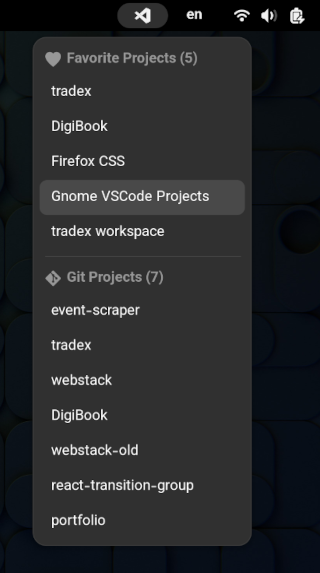
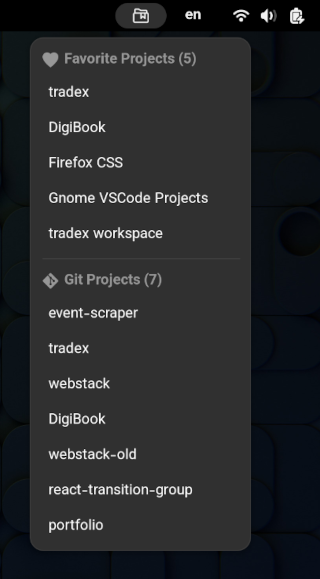
Update README and other assets
Add trademark disclaimers and changed the toolbar icon.

diff --git a/src/extension.js b/src/extension.js
@@ -3,20 +3,20 @@
  *
  * Copyright (C) 2022 Amir Hossein Mafi <amir77mafi@gmail.com>
  *
- * This file is part of gnome-vscode-projects.
+ * This file is part of Project Manager for VSCode.
  *
- * gnome-vscode-projects is free software: you can redistribute it and/or modify
+ * Project Manager for VSCode is free software: you can redistribute it and/or modify
  * it under the terms of the GNU General Public License as published by the
  * Free Software Foundation, either version 3 of the License,
  * or (at your option) any later version.
  *
- * gnome-vscode-projects is distributed in the hope that it will be useful, but
+ * Project Manager for VSCode is distributed in the hope that it will be useful, but
  * WITHOUT ANY WARRANTY; without even the implied warranty of MERCHANTABILITY or
  * FITNESS FOR A PARTICULAR PURPOSE.  See the GNU General Public License for
  * more details.
  *
  * You should have received a copy of the GNU General Public License
- * along with gnome-vscode-projects. If not, see <http://www.gnu.org/licenses/>.
+ * along with Project Manager for VSCode. If not, see <http://www.gnu.org/licenses/>.
  *
  * SPDX-License-Identifier: GPL-3.0-or-later
  */

diff --git a/src/components/ProjectsPanelMenuButton.js b/src/components/ProjectsPanelMenuButton.js
@@ -17,7 +17,9 @@ var ProjectsPanelMenuButton = GObject.registerClass(
       this.menu.actor.add_style_class_name('vscode-projects-extension');
 
       this._icon = new St.Icon({
-        gicon: IconUtils.getCustomIconPath('vscode-symbolic'),
+        gicon: IconUtils.getCustomIconPath(
+          'project-manager-for-vscode-symbolic'
+        ),
         style_class: 'system-status-icon',
       });
       this.add_child(this._icon);

diff --git a/README.md b/README.md
@@ -1,45 +1,45 @@
 <div align="center">
-  <h1>VSCode Projects Gnome Extension</h1>
-  <p><b>Easily open your VSCode projects from gnome-shell</b></p>
+  <h1>GNOME Extension - Project Manager for Visual Studio Code</h1>
+  <p><b>Easily open your Visual Studio Code projects from GNOME shell</b></p>
   <a href="https://extensions.gnome.org">
     <img src="https://img.shields.io/badge/Install%20from-extensions.gnome.org-4A86CF?style=for-the-badge&logo=Gnome&logoColor=white"/>
   </a>
 </div>
 
-This extension simply allows you to open the projects from [VSCode](https://code.visualstudio.com) [Project Manager extension](https://github.com/alefragnani/vscode-project-manager) in menu on the gnome-shell toolbar.
+This extension simply allows you to open the projects from [VSCode](https://code.visualstudio.com) [Project Manager extension](https://github.com/alefragnani/vscode-project-manager) in menu on the GNOME shell toolbar. The Project Manager extension should be installed for this extension to work.
 
-![VSCode Projects for Gnome Screenshot](images/gnome-vscode-projects.png)
+![GNOME Extension - Project Manager for Visual Studio Code Screenshot](https://github.com/ahmafi/gnome-vscode-projects/raw/main/images/gnome-vscode-projects.png)
 
 # Installation
 
 ## Recommended
 
-Install from [GNOME Shell Extensions](https://extensions.gnome.org) website to get latest version.
+Install from [GNOME Shell Extensions](https://extensions.gnome.org) website to get the latest version.
 
 ## Manual
 
 1. Clone the repo
 
-   ```sh
+   ```
    git clone https://github.com/ahmafi/gnome-vscode-projects
    ```
 
-2. Install the extension (it will use `gnome-extensions` to install into `~/.local/share/gnome-shell/extensions`)
+2. Install the extension (it will use `gnome-extensions` CLI tool to install into `~/.local/share/gnome-shell/extensions`)
 
-   ```sh
+   ```
    cd gnome-vscode-projects
    make install
    ```
 
    **Or** do it manually
 
-   ```sh
+   ```
    cd gnome-vscode-projects
-   mkdir ~/.local/share/gnome-shell/extension/vscodeprojects@ahmafi.ir
-   cp -r src/* ~/.local/share/gnome-shell/extension/vscodeprojects@ahmafi.ir
+   mkdir ~/.local/share/gnome-shell/extension/projectmanagerforvscode@ahmafi.ir
+   cp -r src/* ~/.local/share/gnome-shell/extension/projectmanagerforvscode@ahmafi.ir
    ```
 
-3. Restart the gnome-shell
+3. Restart the GNOME shell
 
    - **Wayland**: Logout and login.
 
@@ -47,7 +47,7 @@ Install from [GNOME Shell Extensions](https://extensions.gnome.org) website to g
 
 4. Enable the extension:
    ```
-   gnome-extensions enable vscodeprojects@ahmafi.ir
+   gnome-extensions enable projectmanagerforvscode@ahmafi.ir
    ```
    You can also enable it in GUI from the [Extension Manager](https://github.com/mjakeman/extension-manager) app.
 
@@ -72,7 +72,7 @@ make install
 Enable the extension (Only for the first time)
 
 ```
-gnome-extensions enable vscodeprojects@ahmafi.ir
+gnome-extensions enable projectmanagerforvscode@ahmafi.ir
 ```
 
 Run a wayland nested session
@@ -83,8 +83,41 @@ make run
 
 If you are using X11, or for more details see [here](https://gjs.guide/extensions/development/creating.html#enabling-the-extension).
 
-# Shout-outs
+# Credits
 
-Thanks to all open source contributors, especially the contributors to [GNOME](https://www.gnome.org), [VSCode](https://code.visualstudio.com) and [Project Manager extension](https://github.com/alefragnani/vscode-project-manager).
+## Icons
 
 Thanks to [svgrepo](https://www.svgrepo.com) for a huge repository of great icons.
+
+<details>
+<summary><b>Icons List ...</b></summary>
+<p>
+
+- favorite-symbolic.svg <img align="center" src="https://github.com/ahmafi/gnome-vscode-projects/raw/main/src/icons/favorite-symbolic.svg" width="20"/> - [CC0 License](https://creativecommons.org/share-your-work/public-domain/cc0)
+- project-manager-for-vscode-symbolic.svg <img align="center" src="https://github.com/ahmafi/gnome-vscode-projects/raw/main/src/icons/project-manager-for-vscode-symbolic.svg" width="20"/> - [CC0 License](https://creativecommons.org/share-your-work/public-domain/cc0)
+- git-symbolic.svg <img align="center" src="https://github.com/ahmafi/gnome-vscode-projects/raw/main/src/icons/git-symbolic.svg" width="20"/> - [MIT](https://github.com/featherplain/feathericon/blob/master/LICENSE) (C) 2018 Megumi Hano - (feathericon)
+
+</p>
+</details>
+
+# Disclaimer
+
+This extension is an independent project and is not affiliated with, authorized by, sponsored by, or in any way associated with Microsoft corporation, Visual Studio Code software and GNOME Foundation.
+
+Legal disclaimer for brand icons and trademarks:
+
+_All brand icons are trademarks of their respective owners. The use of these trademarks does not indicate endorsement of the trademark holder by "Project Manager for VSCode" project, nor vice versa. Please do not use brand logos for any purpose except to represent the company, product, or service to which they refer._
+
+<details>
+<summary><b>Read More...</b></summary>
+<p>
+
+- **Git** <img align="center" src="https://github.com/ahmafi/gnome-vscode-projects/raw/main/src/icons/git-symbolic.svg" width="20"/> - Git and the Git logo are either registered trademarks or trademarks of Software Freedom Conservancy, Inc., corporate home of the Git Project, in the United States and/or other countries.
+- **Visual Studio Code** - Visual Studio Code, VS Code, and the Visual Studio Code icon are trademarks of Microsoft Corporation. All rights reserved.
+- **GNOME** - The GNOME logo and GNOME name are registered trademarks or trademarks of GNOME Foundation in the United States or other countries.
+</p>
+</details>
+
+# License
+
+[GPL-3.0](https://github.com/ahmafi/gnome-vscode-projects/blob/main/LICENSE) &copy; Amir Hossein Mafi
